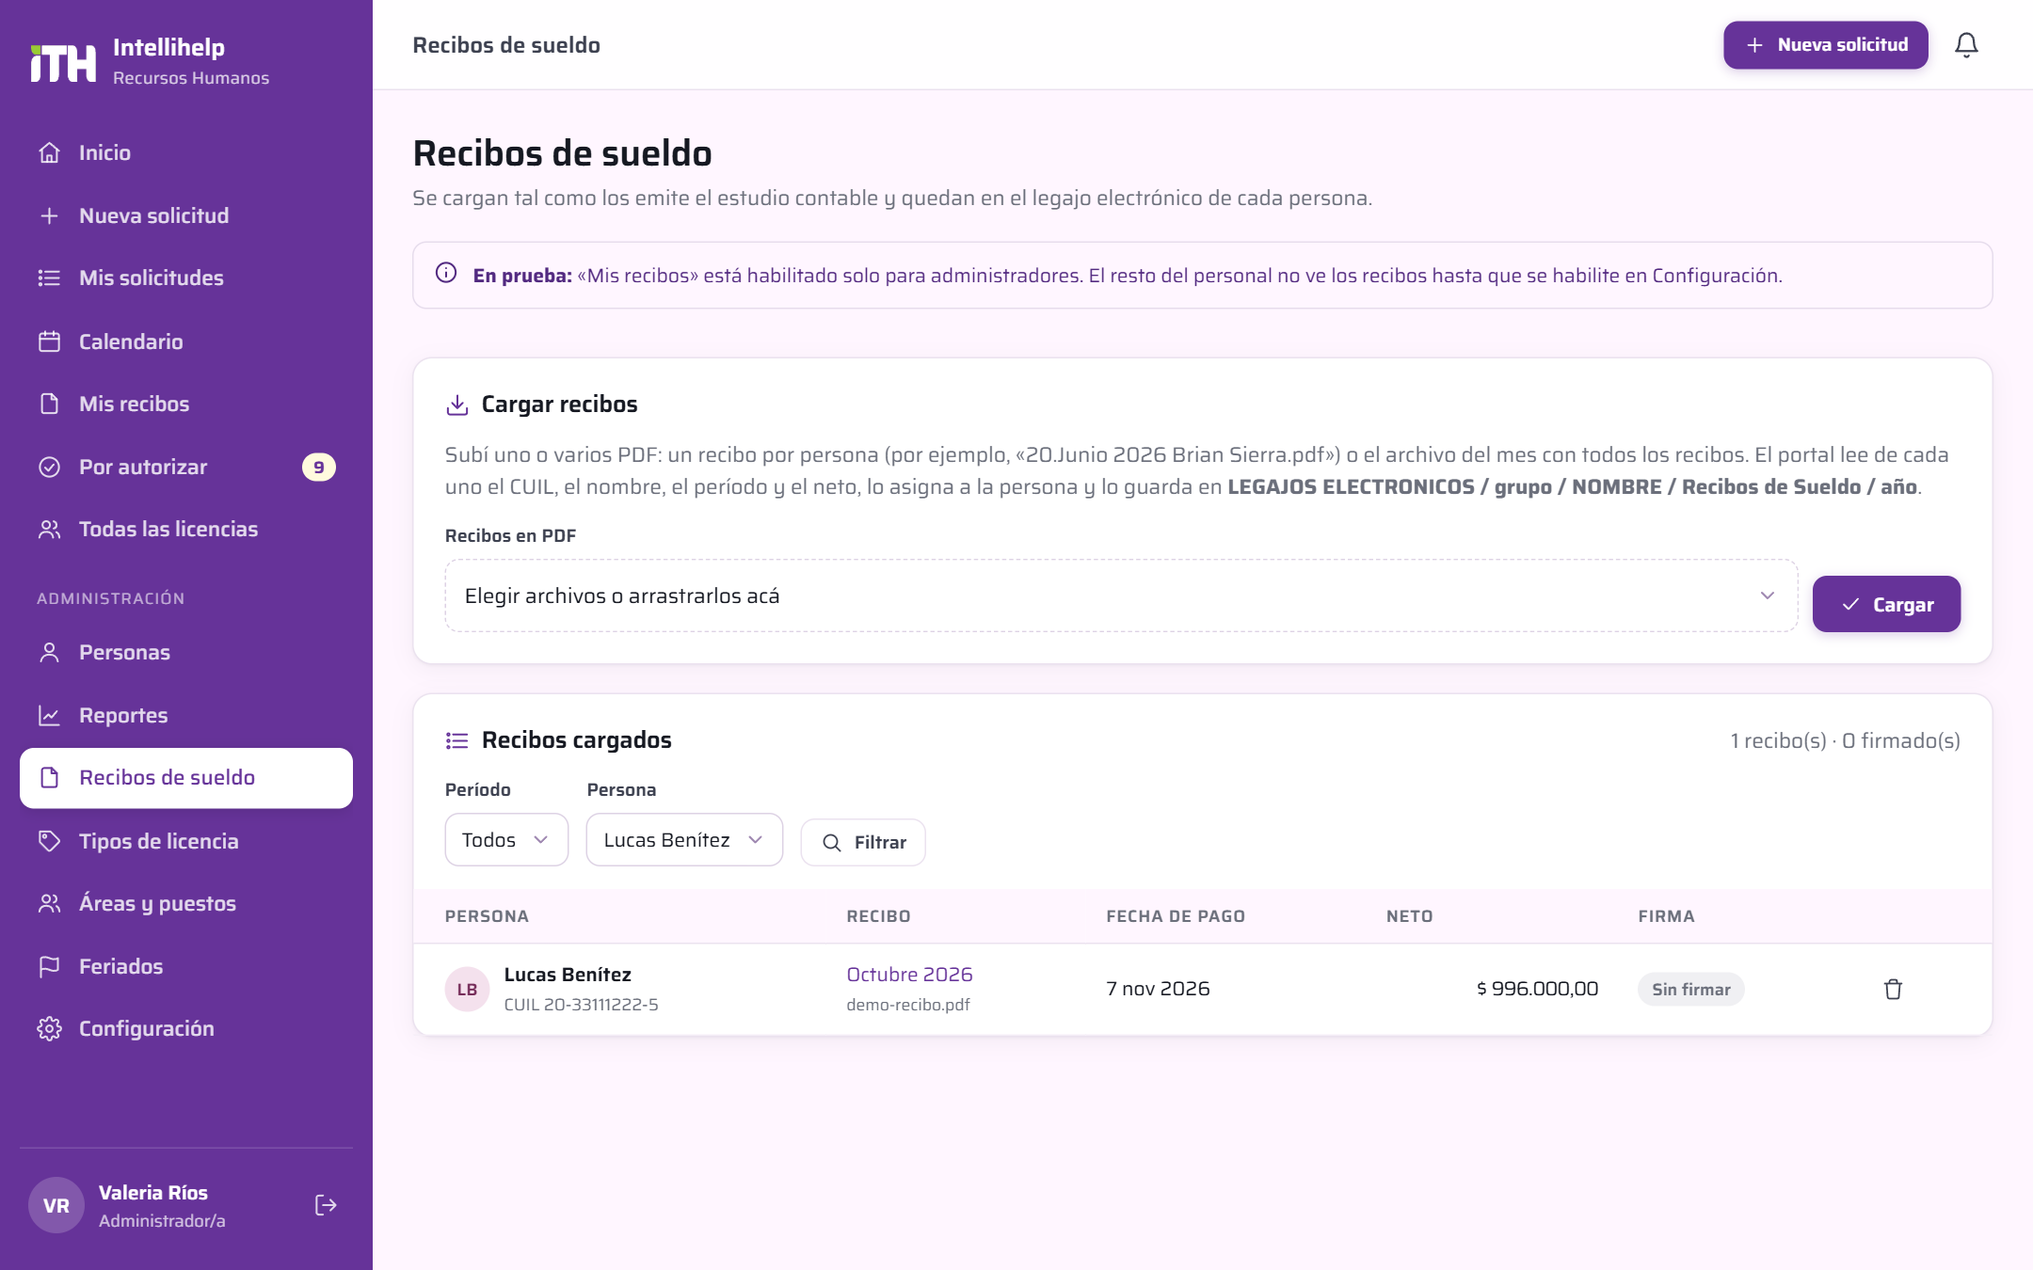
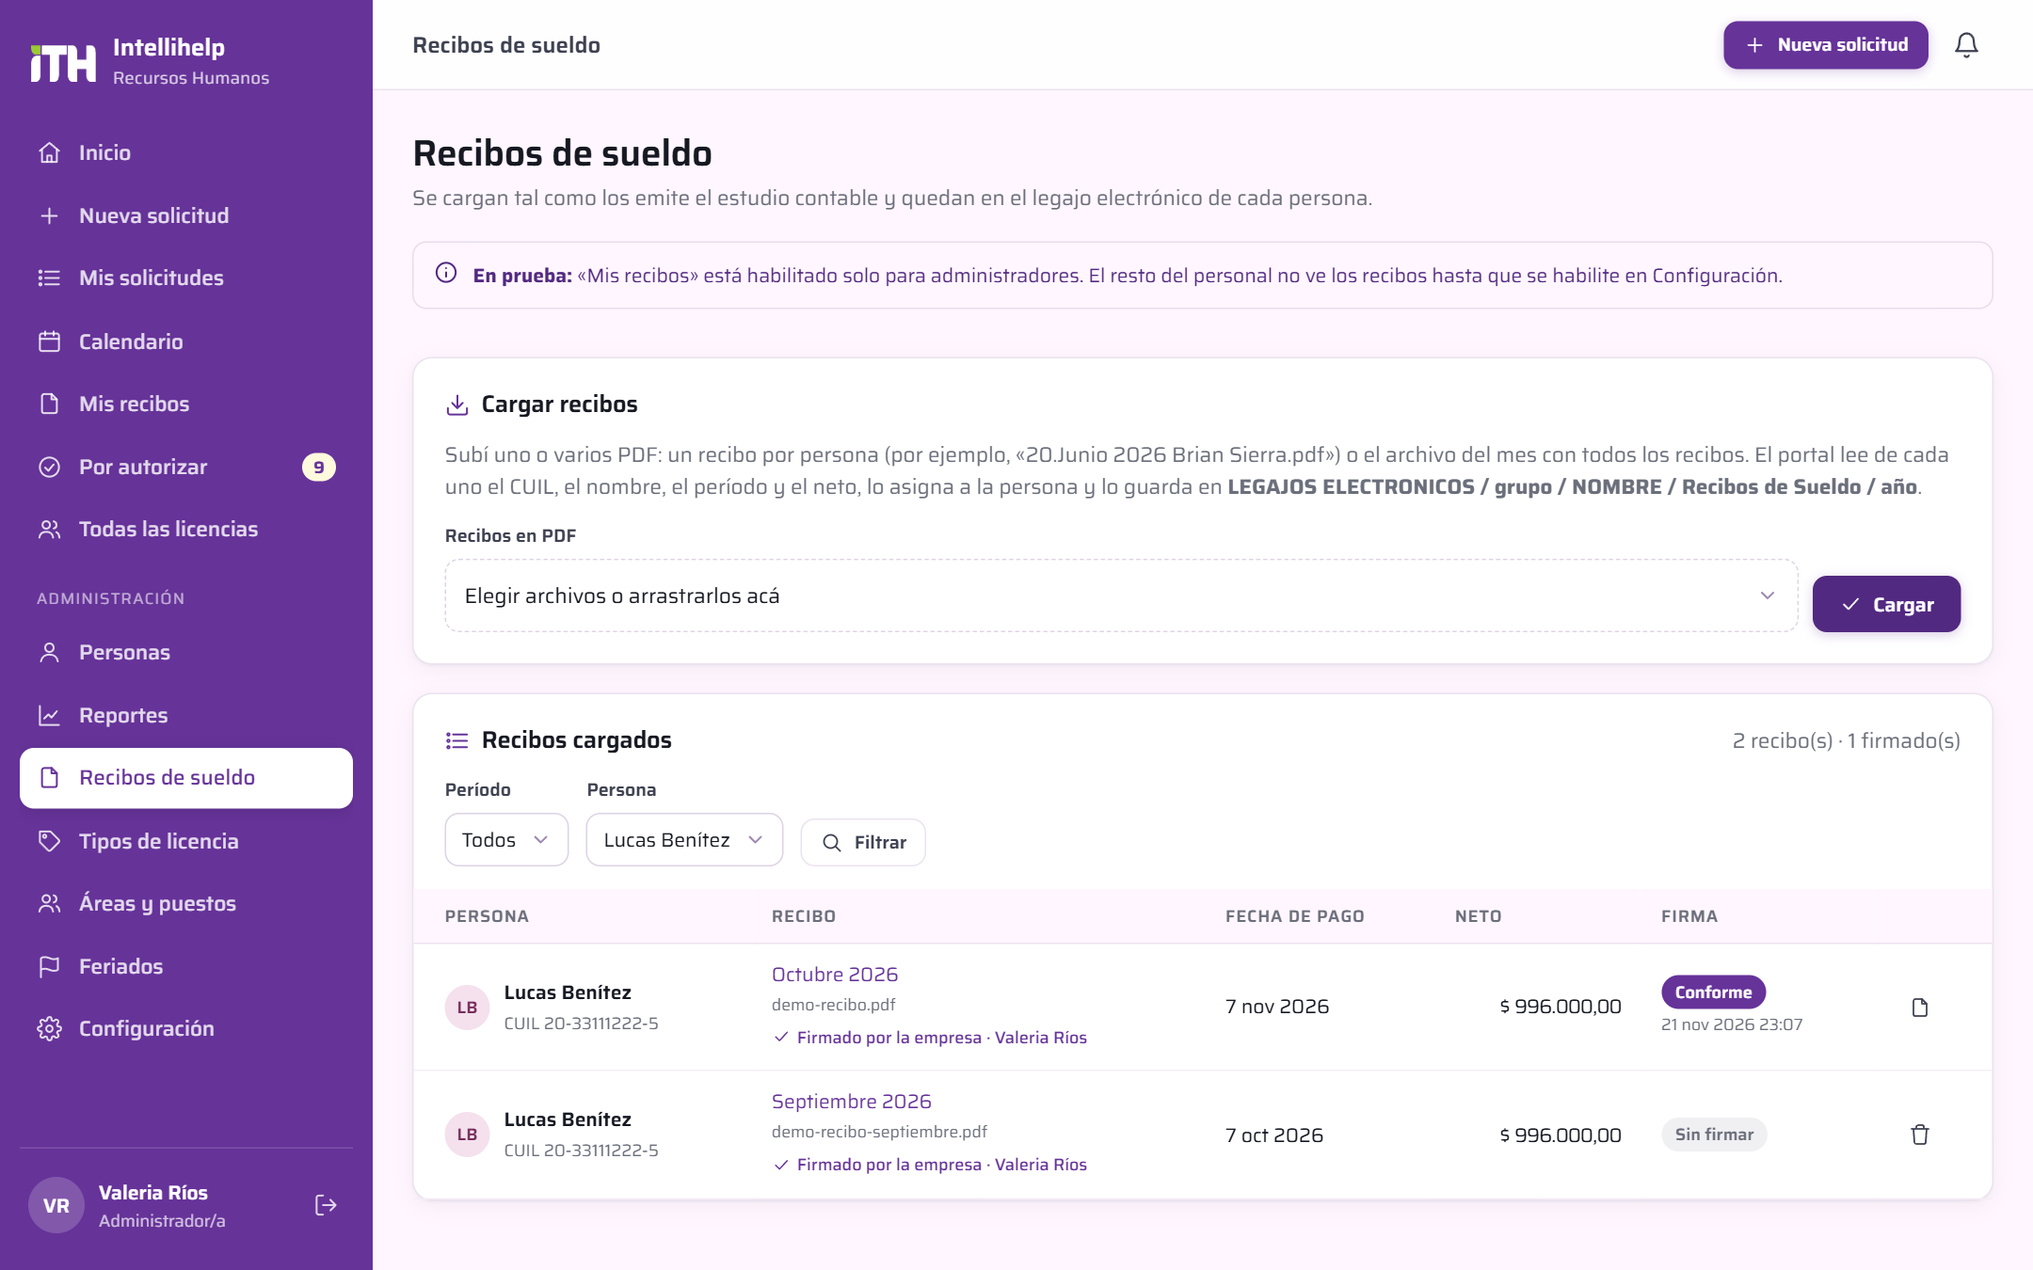
Diseño adaptable de 4K a celulares, listados paginados de a 25 y listas de personas solo con quienes están registrados y activos

diff --git a/public_html/assets/css/app.css b/public_html/assets/css/app.css
@@ -696,6 +696,26 @@ body.modal-open { overflow: hidden; }
 @media (max-width: 640px) { .gcal-test-steps { grid-template-columns: 1fr; } }
 
 /* ---------- Responsive ---------- */
+/* Pantallas grandes: el contenido aprovecha el ancho disponible (Full HD, 2K y 4K). */
+@media (min-width: 1440px) {
+  .content { max-width: 1480px; padding: 32px 36px; }
+}
+@media (min-width: 1680px) {
+  .content { max-width: 1640px; }
+  .grid-main { grid-template-columns: minmax(0, 1fr) 400px; }
+}
+@media (min-width: 1920px) {
+  :root { --sidebar: 280px; }
+  .content { max-width: 1800px; padding: 36px 48px; }
+}
+/* 2K, 4K y monitores grandes: se escala todo para que se lea igual de cómodo. */
+@media (min-width: 2400px) { body { zoom: 1.2; } .content { max-width: 2100px; } }
+@media (min-width: 3200px) { body { zoom: 1.5; } }
+/* Laptops y notebooks (1280 a 1366). */
+@media (max-width: 1366px) {
+  :root { --sidebar: 240px; }
+  .content { padding: 24px; }
+}
 @media (max-width: 1100px) {
   .grid-main, .new-req { grid-template-columns: minmax(0, 1fr); }
   .sticky { position: static; }
@@ -800,3 +820,41 @@ body.modal-open { overflow: hidden; }
 .sig-tag.ok { color: #663399; }
 .sig-tag.warn { color: var(--warn); }
 .sig-tag.none { color: var(--muted); }
+
+/* Paginación */
+.pager { display: flex; align-items: center; justify-content: space-between; gap: 12px; flex-wrap: wrap; padding: 14px 0 2px; }
+.pager-info { font-size: 13px; color: var(--muted); }
+.pager-info b { color: var(--ink-2); font-weight: 600; }
+.pager-links { display: flex; align-items: center; gap: 6px; flex-wrap: wrap; }
+.pager-btn { min-width: 36px; height: 36px; padding: 0 10px; display: inline-grid; place-items: center; border-radius: 10px; border: 1px solid var(--line); background: #fff; color: var(--ink-2); font-weight: 600; font-size: 14px; text-decoration: none; transition: background .15s, border-color .15s; }
+a.pager-btn:hover { border-color: #9f88b1; background: var(--primary-50); color: #663399; }
+.pager-btn.current { background: #663399; border-color: #663399; color: #fff; }
+.pager-btn.disabled { opacity: .4; }
+.pager-gap { color: var(--muted); padding: 0 2px; }
+.table-wrap + .pager { padding-top: 22px; }
+.table-wrap:has(+ .pager) { margin-bottom: 0; }
+
+/* Celulares chicos (360 a 400). */
+@media (max-width: 400px) {
+  .content { padding: 14px 12px 32px; gap: 14px; }
+  .card { padding: 14px; }
+  .table-wrap { margin: 0 -14px -14px; }
+  .page-head { flex-direction: column; align-items: stretch; gap: 12px; }
+  .page-head .btn { width: 100%; justify-content: center; }
+  .pager { justify-content: center; }
+  .pager-info { width: 100%; text-align: center; }
+  .pager-btn { min-width: 32px; height: 32px; padding: 0 8px; }
+  .payslip-head { flex-wrap: wrap; }
+  .payslip-net { text-align: left; }
+}
+/* Textos largos (direcciones, códigos) que no deben ensanchar la pantalla. */
+small code, .muted code { overflow-wrap: anywhere; word-break: break-word; }
+@media (max-width: 640px) {
+  .holiday-list li { flex-wrap: wrap; row-gap: 8px; }
+  .holiday-list li .grow { flex: 1 1 calc(100% - 110px); min-width: 0; }
+  .holiday-list li .badge { white-space: normal; }
+}
+@media (max-width: 640px) {
+  .card-head { flex-wrap: wrap; row-gap: 4px; }
+  .card-head > .muted { width: 100%; }
+}

diff --git a/app/lib/helpers.php b/app/lib/helpers.php
@@ -602,3 +602,58 @@ function log_line(string $file, string $msg): void
 {
     @file_put_contents(STORAGE . '/logs/' . $file, '[' . date('Y-m-d H:i:s') . '] ' . $msg . PHP_EOL, FILE_APPEND);
 }
+
+/**
+ * Cantidad de elementos por página en los listados.
+ */
+const PER_PAGE = 25;
+
+/**
+ * Página de resultados de una consulta (25 por página), según el parámetro «pagina».
+ *
+ * @return array{rows: array, page: int, pages: int, total: int, from: int, to: int}
+ */
+function paginate(string $sql, array $params = [], int $per = PER_PAGE): array
+{
+    $total = (int) val("SELECT COUNT(*) FROM ($sql) AS pag", $params);
+
+    return page_of($total, $per, fn (int $offset) => rows("$sql LIMIT $per OFFSET $offset", $params));
+}
+
+/**
+ * Página de un listado ya cargado en memoria.
+ *
+ * @return array{rows: array, page: int, pages: int, total: int, from: int, to: int}
+ */
+function paginate_array(array $items, int $per = PER_PAGE): array
+{
+    return page_of(count($items), $per, fn (int $offset) => array_slice(array_values($items), $offset, $per));
+}
+
+/**
+ * Datos de la página pedida, ajustada al rango válido.
+ */
+function page_of(int $total, int $per, callable $fetch): array
+{
+    $pages = max(1, (int) ceil($total / $per));
+    $page = min($pages, max(1, (int) ($_GET['pagina'] ?? 1)));
+    $offset = ($page - 1) * $per;
+    $rows = $total ? $fetch($offset) : [];
+
+    return ['rows' => $rows, 'page' => $page, 'pages' => $pages, 'total' => $total, 'from' => $total ? $offset + 1 : 0, 'to' => $offset + count($rows)];
+}
+
+/**
+ * Enlace a otra página del listado, conservando los filtros.
+ */
+function page_url(int $page): string
+{
+    $q = $_GET;
+    unset($q['pagina']);
+    if ($page > 1) {
+        $q['pagina'] = $page;
+    }
+    $path = parse_url($_SERVER['REQUEST_URI'] ?? '/', PHP_URL_PATH) ?: '/';
+
+    return $path . ($q ? '?' . http_build_query($q) : '');
+}

diff --git a/app/views/admin/payslips.php b/app/views/admin/payslips.php
@@ -3,7 +3,6 @@ $money = fn ($n) => $n === null ? '—' : '$ ' . number_format((float) $n, 2, ',
 $periodLabel = function (string $p): string {
     return ucfirst(MESES[(int) substr($p, 5, 2)]) . ' ' . substr($p, 0, 4);
 };
-$signed = count(array_filter($list, fn ($p) => $p['signed_at']));
 ?>
 <div class="page-head">
   <div><h1>Recibos de sueldo</h1><p class="muted">Se cargan tal como los emite el estudio contable y quedan en el legajo electrónico de cada persona.</p></div>
@@ -50,7 +49,7 @@ $signed = count(array_filter($list, fn ($p) => $p['signed_at']));
 <?php endif ?>
 
 <section class="card">
-  <div class="card-head"><h2><?= icon('list') ?> Recibos cargados</h2><span class="muted"><?= count($list) ?> recibo(s) · <?= $signed ?> firmado(s)</span></div>
+  <div class="card-head"><h2><?= icon('list') ?> Recibos cargados</h2><span class="muted"><?= $pg['total'] ?> recibo(s) · <?= $signed ?> firmado(s)</span></div>
   <form method="get" class="filters">
     <label class="field sm"><span>Período</span><select name="periodo"><option value="">Todos</option><?php foreach ($periods as $pp): ?><option value="<?= e($pp) ?>" <?= $period === $pp ? 'selected' : '' ?>><?= e($periodLabel($pp)) ?></option><?php endforeach ?></select></label>
     <label class="field sm"><span>Persona</span><select name="persona"><option value="0">Todas</option><?php foreach ($people as $u): ?><option value="<?= (int) $u['id'] ?>" <?= $person === (int) $u['id'] ? 'selected' : '' ?>><?= e($u['name']) ?></option><?php endforeach ?></select></label>
@@ -79,5 +78,6 @@ $signed = count(array_filter($list, fn ($p) => $p['signed_at']));
       <?php endforeach ?>
     </tbody>
   </table></div>
+  <?php partial('pager', ['pg' => $pg]) ?>
   <?php else: ?><div class="empty"><?= icon('file', 30) ?><p>Todavía no hay recibos cargados<?= $period || $person ? ' con estos filtros' : '' ?>.</p></div><?php endif ?>
 </section>

diff --git a/app/controllers/admin.php b/app/controllers/admin.php
@@ -31,7 +31,8 @@ function admin_users(): void
         $u['vac_used'] = vacation_used((int) $u['id'], $year, "'approved'");
     }
     unset($u);
-    view('admin/users', ['title' => 'Personas', 'users' => $users, 'q' => $q]);
+    $pg = paginate_array($users);
+    view('admin/users', ['title' => 'Personas', 'users' => $pg['rows'], 'pg' => $pg, 'q' => $q]);
 }
 
 /**
@@ -61,7 +62,7 @@ function admin_user_form(int $id = 0): void
         'groups' => $groups,
         'legajo' => $legajo,
         'checklist' => $legajo ? legajo_checklist($legajo['id']) : [],
-        'managers' => rows("SELECT id, name FROM users WHERE active = 1 AND role IN ('manager','hr','admin')" . ($id ? ' AND id <> ' . $id : '') . ' ORDER BY name'),
+        'managers' => rows("SELECT id, name FROM users WHERE active = 1 AND pending_activation = 0 AND pending_approval = 0 AND role IN ('manager','hr','admin')" . ($id ? ' AND id <> ' . $id : '') . ' ORDER BY name'),
         'companies' => array_column(rows('SELECT DISTINCT company FROM users WHERE company IS NOT NULL AND company <> "" ORDER BY company'), 'company'),
         'departments' => array_column(rows('SELECT DISTINCT department FROM users WHERE department IS NOT NULL AND department <> "" ORDER BY department'), 'department'),
     ]);
@@ -407,7 +408,7 @@ function admin_settings(): void
     view('admin/settings', [
         'title' => 'Configuración',
         's' => $s,
-        'approvers' => rows("SELECT id, name, position FROM users WHERE active = 1 AND role IN ('manager','hr','admin') ORDER BY name"),
+        'approvers' => rows("SELECT id, name, position FROM users WHERE active = 1 AND pending_activation = 0 AND pending_approval = 0 AND role IN ('manager','hr','admin') ORDER BY name"),
     ]);
 }
 

diff --git a/app/controllers/requests.php b/app/controllers/requests.php
@@ -27,7 +27,8 @@ function my_requests(): void
     }
     view('requests/mine', [
         'title' => 'Mis solicitudes',
-        'list' => rows($sql . ' ORDER BY r.start_date DESC', $p),
+        'list' => ($pg = paginate($sql . ' ORDER BY r.start_date DESC', $p))['rows'],
+        'pg' => $pg,
         'year' => $year,
         'status' => $status,
         'balances' => balances($u, $year),
@@ -41,7 +42,7 @@ function request_form(): void
 {
     $u = require_login();
     $types = leave_types();
-    $employees = is_hr() ? rows('SELECT id, name, department FROM users WHERE active = 1 ORDER BY name') : [];
+    $employees = is_hr() ? rows('SELECT id, name, department FROM users WHERE active = 1 AND pending_activation = 0 AND pending_approval = 0 ORDER BY name') : [];
     $pre = (string) ($_GET['tipo'] ?? '');
     view('requests/new', [
         'title' => 'Nueva solicitud',
@@ -482,7 +483,8 @@ function approvals(): void
     [$w, $p] = pending_scope($u);
     view('requests/approvals', [
         'title' => 'Por autorizar',
-        'pending' => rows(REQ_SELECT . " WHERE $w ORDER BY r.start_date", $p),
+        'pending' => ($pg = paginate(REQ_SELECT . " WHERE $w ORDER BY r.start_date", $p))['rows'],
+        'pg' => $pg,
         'decided' => rows(REQ_SELECT . ' WHERE r.decided_by = ? ORDER BY r.decided_at DESC LIMIT 15', [$u['id']]),
     ]);
 }
@@ -548,7 +550,8 @@ function team_requests(): void
 
     view('requests/team', [
         'title' => is_hr() ? 'Todas las licencias' : 'Mi equipo',
-        'list' => $list,
+        'list' => ($pg = paginate_array($list))['rows'],
+        'pg' => $pg,
         'f' => $f,
         'types' => leave_types(false),
     ]);

diff --git a/app/controllers/payslips.php b/app/controllers/payslips.php
@@ -37,12 +37,15 @@ function admin_payslips(): void
     }
     view('admin/payslips', [
         'title' => 'Recibos de sueldo',
-        'list' => rows(PAYSLIP_SELECT . ' WHERE p.user_id IS NOT NULL' . ($where ? ' AND ' . implode(' AND ', $where) : '') . ' ORDER BY p.period DESC, u.name', $p),
+        'list' => ($pg = paginate(PAYSLIP_SELECT . ' WHERE p.user_id IS NOT NULL' . ($where ? ' AND ' . implode(' AND ', $where) : '') . ' ORDER BY p.period DESC, u.name', $p))['rows'],
+        'pg' => $pg,
+        'signed' => (int) val('SELECT COUNT(*) FROM payslips p WHERE p.user_id IS NOT NULL AND p.signed_at IS NOT NULL' . ($where ? ' AND ' . implode(' AND ', $where) : ''), $p),
         'unassigned' => rows(PAYSLIP_SELECT . ' WHERE p.user_id IS NULL ORDER BY p.period DESC'),
         'periods' => $periods,
         'period' => $period,
         'person' => $person,
-        'people' => rows('SELECT id, name, cuil FROM users ORDER BY name'),
+        // Solo personas registradas y activas en el portal.
+        'people' => rows('SELECT id, name, cuil FROM users WHERE active = 1 AND pending_activation = 0 AND pending_approval = 0 ORDER BY name'),
         'enabled' => setting('payslips_employees') === '1',
     ]);
 }
@@ -132,7 +135,8 @@ function my_payslips(): void
     }
     view('payslips/mine', [
         'title' => 'Mis recibos',
-        'list' => rows('SELECT * FROM payslips WHERE user_id = ? ORDER BY period DESC, kind', [$me['id']]),
+        'list' => ($pg = paginate('SELECT * FROM payslips WHERE user_id = ? ORDER BY period DESC, kind', [$me['id']]))['rows'],
+        'pg' => $pg,
         'testing' => setting('payslips_employees') !== '1',
     ]);
 }

diff --git a/app/views/partials/pager.php b/app/views/partials/pager.php
@@ -1,0 +1,22 @@
+<?php
+/** @var array $pg Resultado de paginate(): rows, page, pages, total, from, to. */
+if (empty($pg) || $pg['total'] <= PER_PAGE) {
+    return;
+}
+$p = $pg['page'];
+$n = $pg['pages'];
+// Primera, última y las vecinas de la actual; el resto se resume con «…».
+$show = array_unique(array_filter([1, 2, $p - 1, $p, $p + 1, $n - 1, $n], fn ($i) => $i >= 1 && $i <= $n));
+sort($show);
+?>
+<nav class="pager" aria-label="Páginas">
+  <span class="pager-info">Mostrando <b><?= $pg['from'] ?>–<?= $pg['to'] ?></b> de <b><?= $pg['total'] ?></b></span>
+  <div class="pager-links">
+    <?php if ($p > 1): ?><a class="pager-btn" href="<?= e(page_url($p - 1)) ?>" aria-label="Página anterior"><?= icon('chevron-left', 16) ?></a><?php else: ?><span class="pager-btn disabled"><?= icon('chevron-left', 16) ?></span><?php endif ?>
+    <?php $prev = 0; foreach ($show as $i): ?>
+      <?php if ($i - $prev > 1): ?><span class="pager-gap">…</span><?php endif ?>
+      <?php if ($i === $p): ?><span class="pager-btn current" aria-current="page"><?= $i ?></span><?php else: ?><a class="pager-btn" href="<?= e(page_url($i)) ?>"><?= $i ?></a><?php endif ?>
+    <?php $prev = $i; endforeach ?>
+    <?php if ($p < $n): ?><a class="pager-btn" href="<?= e(page_url($p + 1)) ?>" aria-label="Página siguiente"><?= icon('chevron-right', 16) ?></a><?php else: ?><span class="pager-btn disabled"><?= icon('chevron-right', 16) ?></span><?php endif ?>
+  </div>
+</nav>

diff --git a/app/views/admin/reports.php b/app/views/admin/reports.php
@@ -19,7 +19,7 @@ $query = array_filter(['desde' => $from, 'hasta' => $to, 'persona' => $user]);
     <button class="btn btn-ghost btn-sm"><?= icon('search', 16) ?> Filtrar</button>
     <?php if ($query): ?><a class="link-sm" href="<?= url('/admin/reportes') ?>">Quitar filtros</a><?php endif ?>
   </form>
-  <p class="muted report-scope"><?= e(report_filters_label($from, $to, $user)) ?> · <b><?= count($records) ?></b> registro<?= count($records) === 1 ? '' : 's' ?></p>
+  <p class="muted report-scope"><?= e(report_filters_label($from, $to, $user)) ?> · <b><?= $pg['total'] ?></b> registro<?= $pg['total'] === 1 ? '' : 's' ?></p>
 
   <?php if ($records): ?>
   <div class="table-wrap">
@@ -37,6 +37,7 @@ $query = array_filter(['desde' => $from, 'hasta' => $to, 'persona' => $user]);
       </tbody>
     </table>
   </div>
+  <?php partial('pager', ['pg' => $pg]) ?>
   <?php else: ?>
     <div class="empty"><?= icon('chart', 30) ?><p>No hay licencias que impacten en vacaciones con esos filtros.</p></div>
   <?php endif ?>

diff --git a/app/lib/payslips.php b/app/lib/payslips.php
@@ -234,7 +234,7 @@ function payslip_match_user(array $data): ?array
     $compact = str_replace(' ', '', legajo_norm($data['name']));
     $glued = fn (array $u) => ($w = array_filter(explode(' ', legajo_norm($u['name'])))) && strlen(implode('', $w)) === strlen($compact)
         && !array_filter($w, fn ($x) => !str_contains($compact, $x));
-    $candidates = array_filter(rows('SELECT * FROM users WHERE cuil IS NULL'), fn ($u) => legajo_name_match(str_replace(',', ' ', $data['name']), $u['name']) || $glued($u));
+    $candidates = array_filter(rows('SELECT * FROM users WHERE cuil IS NULL AND active = 1 AND pending_activation = 0 AND pending_approval = 0'), fn ($u) => legajo_name_match(str_replace(',', ' ', $data['name']), $u['name']) || $glued($u));
 
     return count($candidates) === 1 ? array_values($candidates)[0] : null;
 }

diff --git a/app/controllers/reports.php b/app/controllers/reports.php
@@ -35,11 +35,12 @@ function reports_page(): void
     [$from, $to, $user] = report_filters();
     view('admin/reports', [
         'title' => 'Reportes',
-        'records' => vacation_records($from, $to, $user),
+        'records' => ($pg = paginate_array(vacation_records($from, $to, $user)))['rows'],
+        'pg' => $pg,
         'from' => $from,
         'to' => $to,
         'user' => $user,
-        'people' => rows('SELECT id, name FROM users WHERE pending_activation = 0 ORDER BY name'),
+        'people' => rows('SELECT id, name FROM users WHERE active = 1 AND pending_activation = 0 AND pending_approval = 0 ORDER BY name'),
         'enabled' => setting('report_enabled') === '1',
         'recipients' => setting('report_recipients'),
         'day' => (int) setting('report_day', '1'),

diff --git a/app/views/requests/approvals.php b/app/views/requests/approvals.php
@@ -1,5 +1,5 @@
 <div class="page-head">
-  <div><h1>Por autorizar</h1><p class="muted"><?= count($pending) ?> solicitud<?= count($pending) === 1 ? '' : 'es' ?> esperando tu decisión.</p></div>
+  <div><h1>Por autorizar</h1><p class="muted"><?= $pg['total'] ?> solicitud<?= $pg['total'] === 1 ? '' : 'es' ?> esperando tu decisión.</p></div>
 </div>
 
 <?php if ($pending): ?>
@@ -28,6 +28,7 @@
       </article>
     <?php endforeach ?>
   </div>
+  <?php partial('pager', ['pg' => $pg]) ?>
 <?php else: ?>
   <section class="card"><div class="empty"><?= icon('check-circle', 36) ?><p><b>¡Estás al día!</b><br>No hay solicitudes pendientes.</p></div></section>
 <?php endif ?>

diff --git a/app/views/requests/team.php b/app/views/requests/team.php
@@ -1,5 +1,5 @@
 <div class="page-head">
-  <div><h1><?= e($title) ?></h1><p class="muted"><?= count($list) ?> resultado<?= count($list) === 1 ? '' : 's' ?></p></div>
+  <div><h1><?= e($title) ?></h1><p class="muted"><?= $pg['total'] ?> resultado<?= $pg['total'] === 1 ? '' : 's' ?></p></div>
   <a class="btn btn-ghost" href="?<?= e(http_build_query($f + ['export' => 'csv'])) ?>"><?= icon('download', 16) ?> Exportar CSV</a>
 </div>
 
@@ -45,6 +45,7 @@
       </tbody>
     </table>
   </div>
+  <?php partial('pager', ['pg' => $pg]) ?>
   <?php else: ?>
     <div class="empty"><?= icon('search', 30) ?><p>No hay licencias con esos filtros.</p></div>
   <?php endif ?>
